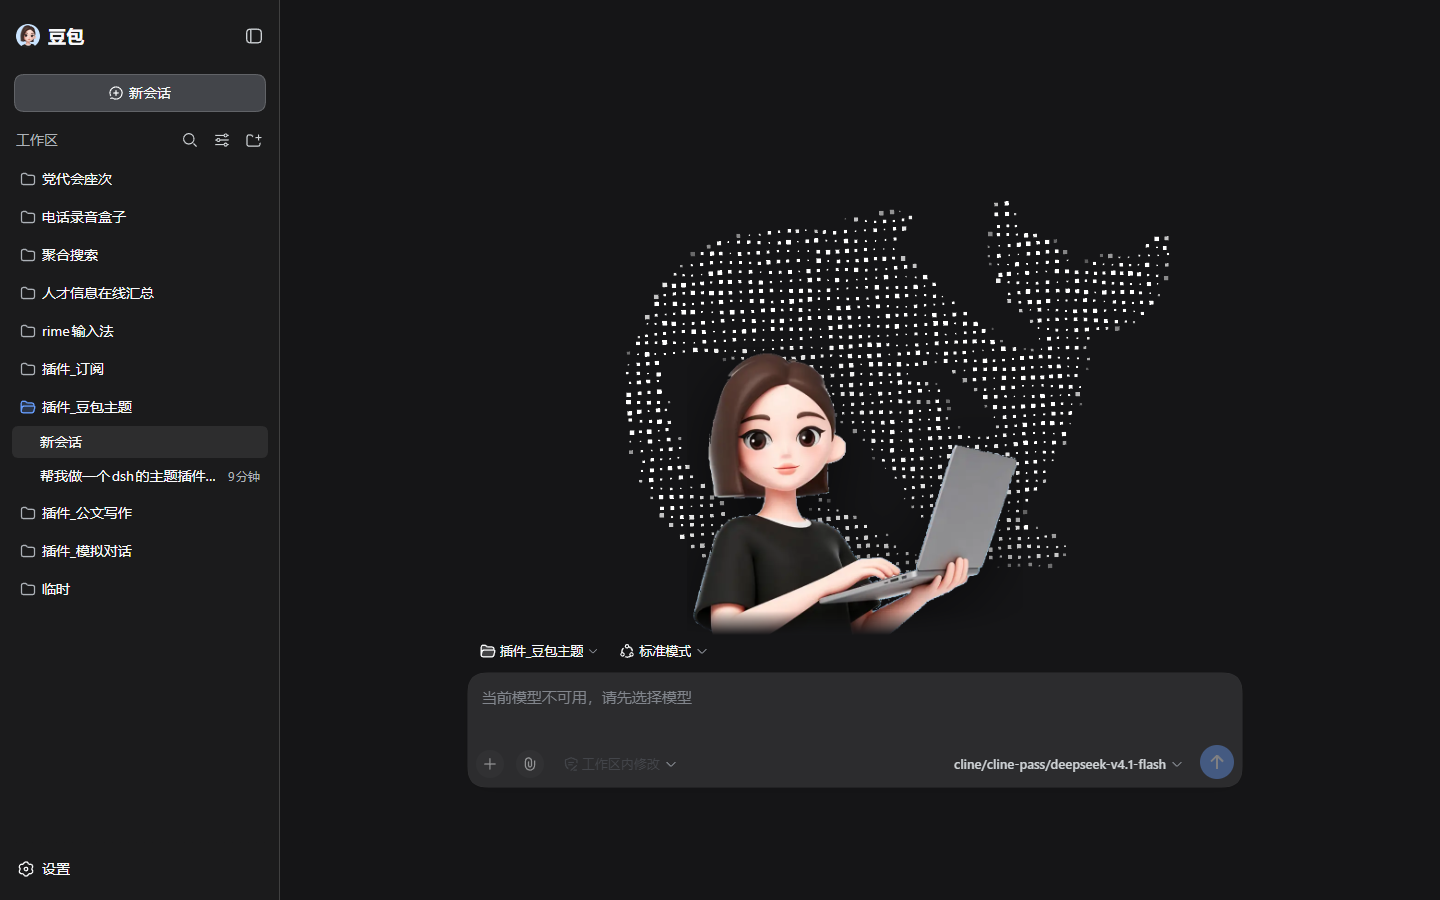
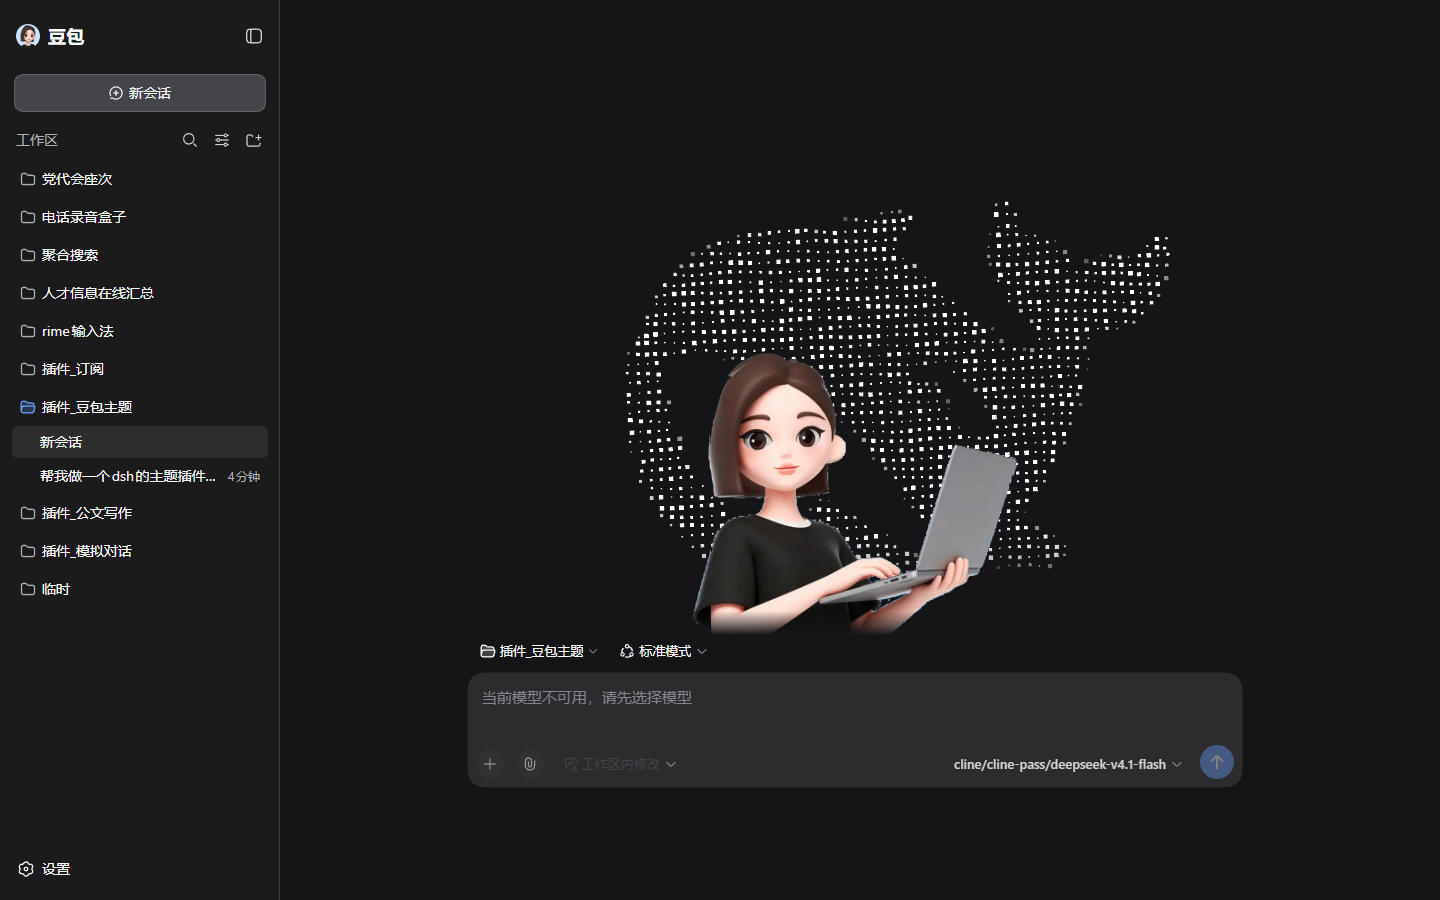
去掉人物身上的 CSS 投影：那圈灰雾不是抠图没干净，是 drop-shadow
上一轮只处理了原图的投影，但这圈灰雾其实是 `[data-doubao-character]` 上的
`drop-shadow(0 14px 28px rgba(11,28,58,.16))` 画出来的 —— 透明立绘周围再叠一层
模糊阴影，看起来就是"抠图没抠干净"。A/B 对比（同一次渲染、只切 filter）确认：
带 filter 时头发左侧有一道跟随轮廓的灰色软边，去掉后同一区域是纯白。

现在 `filter: none`，纵深感交给身后的点阵场；深色分支那版更重的黑影也一并去掉。

diff --git a/client/client.js b/client/client.js
@@ -888,18 +888,14 @@ window.__ModuleLoader__.load({
         pointer-events: none;
         user-select: none;
         -webkit-user-drag: none;
-        filter: drop-shadow(0 14px 28px rgba(11, 28, 58, 0.16));
+        /* No drop-shadow. The artwork is keyed to a clean alpha edge, and a CSS shadow
+           around a cut-out reads as a failed cut-out rather than as depth — the dot
+           field behind it already supplies the depth. */
+        filter: none;
         /* The artwork is a torso crop, so its last rows dissolve instead of showing a
            hard cut where the scene stops above the composer. */
         -webkit-mask-image: linear-gradient(to bottom, #000 calc(100% - var(--doubao-character-fade, 20px)), transparent 100%);
         mask-image: linear-gradient(to bottom, #000 calc(100% - var(--doubao-character-fade, 20px)), transparent 100%);
-      }
-
-      /* Dark surfaces need a shadow that reads as depth, not as dirt. */
-      @media (prefers-color-scheme: dark) {
-        [data-doubao-character] {
-          filter: drop-shadow(0 14px 32px rgba(0, 0, 0, 0.55));
-        }
       }
 
       @media (prefers-reduced-motion: reduce) {

diff --git a/src/client/styles.js b/src/client/styles.js
@@ -94,18 +94,14 @@ const CSS = `
   pointer-events: none;
   user-select: none;
   -webkit-user-drag: none;
-  filter: drop-shadow(0 14px 28px rgba(11, 28, 58, 0.16));
+  /* No drop-shadow. The artwork is keyed to a clean alpha edge, and a CSS shadow
+     around a cut-out reads as a failed cut-out rather than as depth — the dot
+     field behind it already supplies the depth. */
+  filter: none;
   /* The artwork is a torso crop, so its last rows dissolve instead of showing a
      hard cut where the scene stops above the composer. */
   -webkit-mask-image: linear-gradient(to bottom, #000 calc(100% - var(--doubao-character-fade, 20px)), transparent 100%);
   mask-image: linear-gradient(to bottom, #000 calc(100% - var(--doubao-character-fade, 20px)), transparent 100%);
-}
-
-/* Dark surfaces need a shadow that reads as depth, not as dirt. */
-@media (prefers-color-scheme: dark) {
-  [data-doubao-character] {
-    filter: drop-shadow(0 14px 32px rgba(0, 0, 0, 0.55));
-  }
 }
 
 @media (prefers-reduced-motion: reduce) {

diff --git a/README.md b/README.md
@@ -53,6 +53,9 @@
 - 舞台 `[data-doubao-stage]` 从零高度的标题行向下长到那排 chip（工作区 / 预设 / 权限）
   的上沿；人物底边就站在那条线上，底部按立绘高度的 8.5% 用 `mask-image` 淡出，遮掉
   立绘自身的横向裁切边。
+- 人物**不加任何 CSS 投影**（`filter: none`）：抠好的透明立绘周围再叠一层
+  `drop-shadow`，看着就像"抠图没抠干净"留下的一圈灰雾，而这层灰雾是 CSS 画的、
+  不是图里的。纵深感交给身后的点阵场。
 - 为什么站在这排 chip 上而不是直接站在输入框上：那排 chip 的绘制层级在场景之上，
   人物压过去会让深色文字落在黑 T 恤上、深色主题里落在手臂上，两边都看不清。
 - 空出来的高度通过给滚动容器设 `justify-content: flex-end` 加底部内边距
